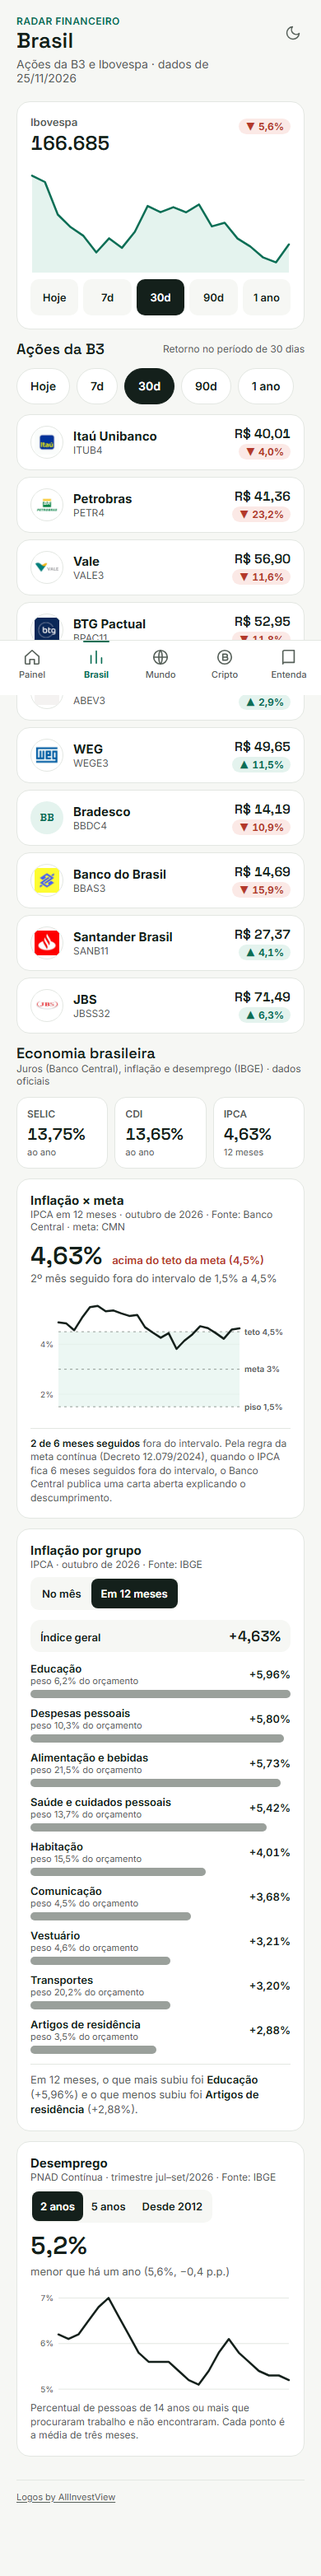
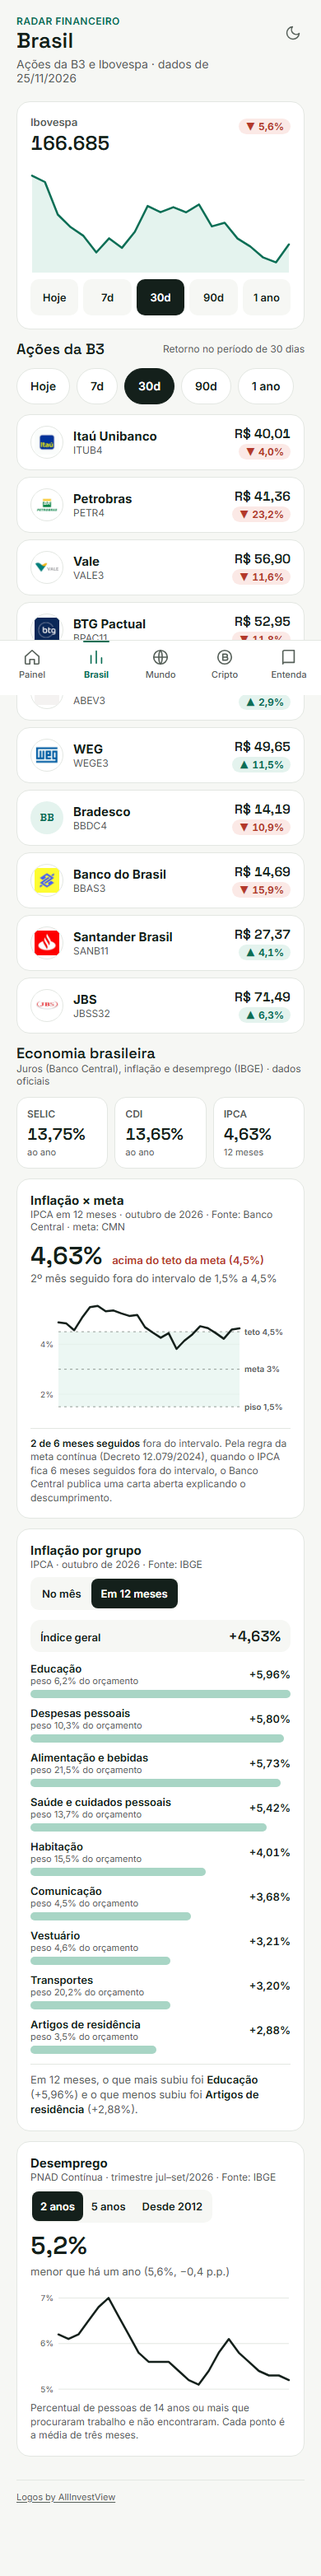
style(web): barras da inflação por grupo em verde leve no modo claro

Changed region(s): [[0.0923, 0.6512, 0.8923, 0.8063]]

diff --git a/web/components/IbgeView.tsx b/web/components/IbgeView.tsx
@@ -90,7 +90,7 @@ function InflationByGroup({ data, i, className = "" }: { data: Ibge; i: number; 
           initial={{ scaleX: 0 }}
           animate={{ scaleX: 1 }}
           transition={{ duration: reduce ? 0 : 0.4, ease: [0.2, 0.7, 0.2, 1] }}
-          className="absolute inset-y-0 rounded-full bg-muted/60"
+          className="absolute inset-y-0 rounded-full bg-[var(--bar-ipca)]"
           style={value >= 0 ? { left: "50%", width: `${w / 2}%`, transformOrigin: "left" } : { right: "50%", width: `${w / 2}%`, transformOrigin: "right" }}
         />
       </span>
@@ -101,7 +101,7 @@ function InflationByGroup({ data, i, className = "" }: { data: Ibge; i: number; 
           initial={{ scaleX: 0 }}
           animate={{ scaleX: 1 }}
           transition={{ duration: reduce ? 0 : 0.4, ease: [0.2, 0.7, 0.2, 1] }}
-          className="h-full rounded-full bg-muted/60"
+          className="h-full rounded-full bg-[var(--bar-ipca)]"
           style={{ width: `${w}%`, transformOrigin: "left" }}
         />
       </span>

diff --git a/web/app/globals.css b/web/app/globals.css
@@ -21,6 +21,8 @@
   --primary: #0b6e55;
   --primary-fg: #ffffff;
   --inverse-fg: #ffffff; /* texto sobre o chip ativo (fundo = --fg) */
+  /* Barras da inflação por grupo: verde leve no claro (pedido do dono); neutras no escuro */
+  --bar-ipca: #a8d5c5;
   /* FEATURE DESATIVADA (CDI/IPCA no gráfico): --series-cdi: #2563a8; --series-ipca: #9a6200; */
   --shadow: 0 8px 24px rgba(0, 0, 0, 0.12);
 }
@@ -39,6 +41,7 @@
   --soft: #1b2722;
   --hl: #12382d;
   --inverse-fg: #0b1210;
+  --bar-ipca: rgba(154, 168, 161, 0.6);
   /* FEATURE DESATIVADA: --series-cdi: #7fb2f0; --series-ipca: #e7b04f; */
   --shadow: 0 8px 24px rgba(0, 0, 0, 0.4);
 }
@@ -59,6 +62,7 @@
     --soft: #1b2722;
     --hl: #12382d;
     --inverse-fg: #0b1210;
+  --bar-ipca: rgba(154, 168, 161, 0.6);
   /* FEATURE DESATIVADA: --series-cdi: #7fb2f0; --series-ipca: #e7b04f; */
     --shadow: 0 8px 24px rgba(0, 0, 0, 0.4);
   }

diff --git a/docs/decisoes.md b/docs/decisoes.md
@@ -96,6 +96,8 @@ Formato: **decisão** · motivo · alternativas consideradas.
     - **Gráficos legíveis sem legenda em texto:** eixo com valores (Desemprego, Inflação × meta, Juro real) e linhas de referência rotuladas numa margem à direita (teto, meta, piso), para que o rótulo nunca cruze a linha do dado.
 43. **Teste do carrossel estável:** o teste esperava 1,5 s e media uma vez; sob carga o navegador desenha menos quadros e ele falhava de vez em quando. Agora espera o movimento (até 8 s) com o mouse longe do carrossel. Passou 40 de 40 vezes com 8 testes em paralelo.
 
+44. **Inflação por grupo em uma coluna e com barras em verde leve no modo claro.** A lista é um ranking e deve ser lida de cima para baixo (duas colunas quebravam a ordem); na web, o resumo e a explicação de *peso* ficam ao lado. As barras usam `--bar-ipca`: verde suave no claro (pedido do dono do projeto) e neutro no escuro. O verde é deliberadamente fraco, para não sugerir "inflação subindo = bom".
+
 ## Adaptações em relação ao mockup
 
 - **Tela de ativo:** no lugar do eyebrow "RADAR FINANCEIRO" há o link "‹ BRASIL / MUNDO / CRIPTO", com o mesmo estilo (12px, 600, cor positiva) e alvo de toque de 44px. Sem ele, não haveria como voltar à lista.
